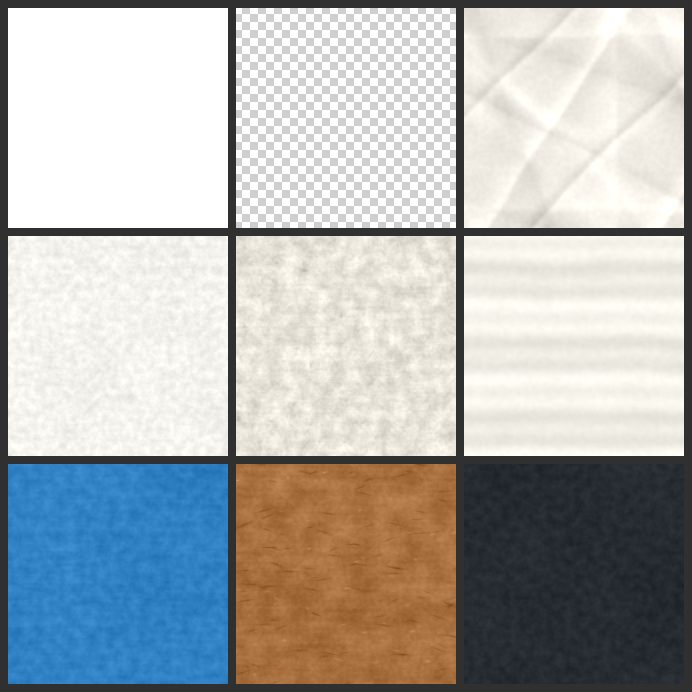
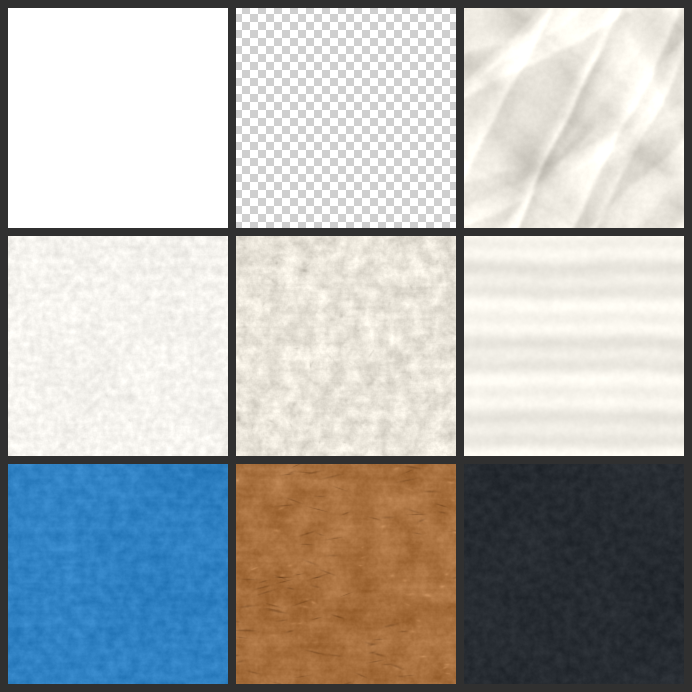
Crumpled stops looking quilted, and kraft fibre learns to clump
Two review notes against the rendered PNGs, both about the same failure: a
texture can hit every sigma threshold and still read as synthetic, because what
gives it away is the REGULARITY, which sigma does not measure at all.

Crumpled was a lattice. Each fold family is the set of parallel lines where
(a*u + b*v) is a whole number, which tiles perfectly and is why it was built
that way - but a stack of families with even pitch running edge to edge reads as
quilting or embossing, not as a crumpled sheet. Real crumpled paper has folds of
unequal length that start and stop, cluster in places and leave others nearly
flat.

So every family now carries a presence mask: a slow two-octave periodic field,
soft-thresholded, and the family's creases exist only where its mask is up. The
folds terminate mid-field, some vanish, and the density clumps. The mask has to
be a function of (u, v) rather than of the line index - stepping u by one moves
that index by a, so per-line randomness could only wrap if it were constant
along gcd(a, b), which for coprime a and b means constant everywhere. A 2-D
periodic field has no such problem and tiles for free.

Family count 15 -> 22 since each now covers only part of the sheet, the
direction pool widens to +/-4, and a third of the families are sharp narrow
creases against two thirds rolled folds, because a real sheet has both.

The coordinate warp is a judgement call and it got walked back after looking at
[…]

diff --git a/src/Quill/Controls/PaperGrain.cs b/src/Quill/Controls/PaperGrain.cs
@@ -215,31 +215,54 @@ public static class PaperGrain
         var h = new float[N];
         var warpU = new float[N];
         var warpV = new float[N];
-        Fbm(warpU, 2, 2, 3, 0.5f, 0.040f, 3301);
-        Fbm(warpV, 2, 2, 3, 0.5f, 0.040f, 3307);
+        // Enough to stop the folds being ruler-straight, and no more. Pushed
+        // further the creases start to curve like draped cloth; paper folds are
+        // comparatively angular, because a sheet creases rather than drapes.
+        Fbm(warpU, 2, 2, 4, 0.55f, 0.046f, 3301);
+        Fbm(warpV, 2, 2, 4, 0.55f, 0.046f, 3307);
 
         // Fold families. A family is the set of parallel lines where
         // (a·u + b·v) is a whole number: integer a and b make it exactly periodic
-        // on the tile, and the family's line spacing is Tile/sqrt(a² + b²), i.e.
-        // 121..512 px — long creases that cross the whole sheet, not a rash.
+        // on the tile, and the family's line spacing is Tile/sqrt(a² + b²).
+        //
+        // On its own that is a LATTICE, and a lattice of evenly pitched creases
+        // running edge to edge reads as quilted or embossed, not as crumpled —
+        // which is exactly how the first version of this looked. Real crumpled
+        // paper has folds of unequal length that start and stop, cluster in some
+        // places and leave others nearly flat. So every family carries a
+        // PRESENCE MASK (fm) — a slow periodic field, thresholded — and the
+        // family's creases only exist where its mask is up. Folds then terminate
+        // mid-field, some vanish entirely, and the density clumps.
+        //
+        // The mask has to be a function of (u, v) rather than of the line index:
+        // stepping u by 1 moves the index by a, so per-line randomness could only
+        // wrap if it were constant along gcd(a, b). A 2-D periodic field has no
+        // such problem and tiles for free.
         var rng = new Rng(90210);
-        const int families = 15;
+        const int families = 22;
         var fa = new int[families];
         var fb = new int[families];
         var fw = new float[families];
         var fp = new float[families];
         var fs = new float[families];
+        var fm = new int[families];
+        var fbias = new float[families];
         for (int k = 0; k < families; k++)
         {
             int a, b;
-            do { a = rng.Int(-3, 3); b = rng.Int(-3, 3); } while (a == 0 && b == 0);
+            do { a = rng.Int(-4, 4); b = rng.Int(-4, 4); } while (a == 0 && b == 0);
             fa[k] = a; fb[k] = b;
             float norm = MathF.Sqrt(a * a + b * b);
-            // half the creases are sharp and narrow, half are soft rolled folds
-            float wide = k % 2 == 0 ? rng.Range(11f, 22f) : rng.Range(26f, 52f);
+            // a third sharp, the rest rolled — a sheet has both hard creases and
+            // soft bends and the mix is what stops it looking machine-made
+            float wide = k % 3 == 0 ? rng.Range(9f, 19f) : rng.Range(24f, 58f);
             fw[k] = wide / (Tile / norm);          // width re-expressed as a phase fraction
             fp[k] = rng.Range(0f, 1f);
-            fs[k] = rng.Range(0.55f, 1.25f) * (rng.Next01() < 0.5f ? -1f : 1f);
+            fs[k] = rng.Range(0.45f, 1.30f) * (rng.Next01() < 0.5f ? -1f : 1f);
+            fm[k] = (int)(rng.Next01() * 100000f) + 11;
+            // how much of the sheet this family reaches: some folds cross most of
+            // it, others are a single short crease in one corner
+            fbias[k] = rng.Range(-0.16f, 0.30f);
         }
 
         Parallel.For(0, Tile, y =>
@@ -258,8 +281,18 @@ public static class PaperGrain
                     float dist = t > 0.5f ? 1f - t : t;   // phase distance to the nearest line
                     float w = fw[k];
                     if (dist >= w) continue;
+
+                    // Presence mask — two slow octaves, thresholded soft. Where
+                    // this is 0 the family's crease simply is not there, which is
+                    // what breaks the lattice into folds of unequal length.
+                    int s = fm[k];
+                    float m = Perlin(u * 3f, v * 3f, 3, 3, s)
+                            + 0.55f * Perlin(u * 7f, v * 7f, 7, 7, s + 17);
+                    m = Smooth01((m + 0.30f + fbias[k]) * 2.4f);
+                    if (m <= 0f) continue;
+
                     float e = 1f - dist / w;
-                    acc += fs[k] * e * e;
+                    acc += fs[k] * e * e * m;
                 }
                 h[i] = acc;
             }
@@ -362,11 +395,14 @@ public static class PaperGrain
         // Dark shives: long, thin, near-horizontal and warm — they take the blue
         // channel down hardest, which is what makes them look like wood rather
         // than like dirt.
-        Flecks(dr, dg, db, 420, 5.5f, 0.85f, -22f, 0.20f, 7741, elongate: true,
-               tintG: 0.78f, tintB: 0.55f);
-        // Pale flecks: filler, and the odd bleached fibre.
-        Flecks(dr, dg, db, 200, 2.4f, 1.1f, 18f, 0.35f, 7757, elongate: true,
-               tintG: 0.95f, tintB: 0.90f);
+        // Counts are roughly doubled because the clump test rejects about half
+        // the candidates; what lands is the same quantity of fibre, gathered.
+        Flecks(dr, dg, db, 900, 5.5f, 0.85f, -22f, 0.20f, 7741, elongate: true,
+               tintG: 0.78f, tintB: 0.55f, clump: 5);
+        // Pale flecks: filler, and the odd bleached fibre. Clumped on a different
+        // field so the two do not pile up in the same places.
+        Flecks(dr, dg, db, 430, 2.4f, 1.1f, 18f, 0.35f, 7757, elongate: true,
+               tintG: 0.95f, tintB: 0.90f, clump: 7);
     }
 
     // =====================================================================
@@ -450,7 +486,8 @@ public static class PaperGrain
     /// sheet it sits in.</summary>
     private static void Flecks(float[] dr, float[] dg, float[] db, int count,
                                float length, float width, float amp, float vary, int seed,
-                               bool elongate = false, float tintG = 1f, float tintB = 1f)
+                               bool elongate = false, float tintG = 1f, float tintB = 1f,
+                               int clump = 0)
     {
         bool shared = ReferenceEquals(dr, dg);
         var rng = new Rng(seed);
@@ -458,6 +495,19 @@ public static class PaperGrain
         {
             float cx = rng.Range(0f, Tile);
             float cy = rng.Range(0f, Tile);
+
+            // Fibre CLUMPS. Scattering inclusions uniformly is the giveaway that
+            // a texture is synthetic: real kraft has dense mats of fibre with
+            // visibly emptier sheet between them. Candidates are rejected against
+            // a slow periodic field, so density follows the field instead of
+            // being flat. Rejected candidates are dropped rather than resampled,
+            // which keeps the loop bounded and the output deterministic — callers
+            // raise `count` to compensate.
+            if (clump > 0)
+            {
+                float m = Perlin(cx / Tile * clump, cy / Tile * clump, clump, clump, seed + 991);
+                if (rng.Next01() > Smooth01(0.5f + 2.6f * m)) continue;
+            }
             // aligned flecks sit near the machine direction (horizontal); the rest
             // point anywhere
             float ang = elongate ? rng.Range(-0.42f, 0.42f) : rng.Range(0f, TAU);
@@ -588,6 +638,16 @@ public static class PaperGrain
     {
         int r = a % m;
         return r < 0 ? r + m : r;
+    }
+
+    /// <summary>Clamps to [0,1] and applies the smoothstep ease, so a threshold
+    /// on a noise field produces patches with soft edges rather than a hard
+    /// stencil cut.</summary>
+    private static float Smooth01(float x)
+    {
+        if (x <= 0f) return 0f;
+        if (x >= 1f) return 1f;
+        return x * x * (3f - 2f * x);
     }
 
     /// <summary>A tiny deterministic PRNG. <see cref="System.Random"/>'s sequence

diff --git a/src/Quill/Controls/InkSurface.cs b/src/Quill/Controls/InkSurface.cs
@@ -311,12 +311,28 @@ public sealed class InkSurface : UserControl
         // The reason to watch is NewDevice, not a "DeviceLost" constant: Win2D
         // reports a recovered device loss by handing the control a NEW device
         // through this same event (the enum is FirstTime / NewDevice /
-        // DpiChanged). DpiChanged is deliberately NOT a trigger - the tiles are
-        // baked at a fixed 96 DPI so one tile pixel is one world unit.
+        // DpiChanged).
+        //
+        // DpiChanged matters too, but not for the page tiles - those are baked
+        // at a fixed 96 DPI on purpose, so one tile pixel is one world unit and
+        // a display change cannot affect them. It matters for the settings
+        // swatches, which are CanvasImageSource and are XAML-composited:
+        // rasterised at 96 on a 125% or 150% display they come out soft. So the
+        // DPI is pushed into PaperTextures, which re-bakes only if it moved.
         _canvas.CreateResources += (_, args) =>
         {
-            if (args.Reason == Microsoft.Graphics.Canvas.UI.CanvasCreateResourcesReason.NewDevice)
+            var reason = args.Reason;
+            if (reason == Microsoft.Graphics.Canvas.UI.CanvasCreateResourcesReason.NewDevice)
                 PaperTextures.Invalidate();
+            if (reason != Microsoft.Graphics.Canvas.UI.CanvasCreateResourcesReason.FirstTime)
+                PaperTextures.SetDisplayDpi(_canvas.Dpi);
+        };
+        // FirstTime fires before the control has its real DPI in some shells, so
+        // the initial value is taken from the XamlRoot once we are in the tree.
+        Loaded += (_, _) =>
+        {
+            try { PaperTextures.SetDisplayDpi((float)(XamlRoot?.RasterizationScale ?? 1.0) * 96f); }
+            catch { }
         };
         _textLayer = new Canvas { Background = null, RenderTransform = _textTransform };
 
@@ -3442,15 +3458,16 @@ public sealed class InkSurface : UserControl
     // effect, it never assigns to it, so the CVC's per-tile pre-translation
     // survives (overwriting it is what made ink vanish in #inkfix2).
     //
-    // The fill rectangle is the visible world rect and the brush wraps every 256
-    // WORLD units, so the texture is glued to the page: it pans and zooms with
-    // the drawing instead of swimming across it.
+    // The fill rectangle is the visible world rect and the brush wraps every
+    // PaperTextures.TileSize WORLD units, so the texture is glued to the page:
+    // it pans and zooms with the drawing instead of swimming across it.
     private void DrawPaper(CanvasDrawingSession ds, Rect region, Color ground)
     {
         var paper = _page?.Paper;
         if (string.IsNullOrEmpty(paper)) return;   // plain colour: byte-for-byte today's path
-        // zoomed far enough out that a 256-unit tile is a few pixels: the grain
-        // would alias into noise, and the flat ground already reads correctly
+        // Zoomed far enough out that the grain is sub-pixel: it would alias into
+        // noise, and the flat ground already reads correctly on its own. The tile
+        // is 512 world units, so this cuts in when it covers ~90 screen pixels.
         if (ViewZoom < 0.18f) return;
         var brush = PaperTextures.Brush(_canvas, paper, ground);
         if (brush == null) return;

diff --git a/src/Quill/Controls/PaperTextures.cs b/src/Quill/Controls/PaperTextures.cs
@@ -204,6 +204,12 @@ public static class PaperTextures
                 if (tile == null) return null;
                 var br = new CanvasImageBrush(rc, tile)
                 {
+                    // SourceRectangle is set EXPLICITLY. Win2D requires a source
+                    // rectangle whenever the extend mode is anything but Clamp —
+                    // it is what tells the brush the period to repeat over — and
+                    // leaving it to be inferred is a documented way to get a
+                    // brush that draws nothing at all.
+                    SourceRectangle = new Windows.Foundation.Rect(0, 0, TileSize, TileSize),
                     ExtendX = CanvasEdgeBehavior.Wrap,
                     ExtendY = CanvasEdgeBehavior.Wrap,
                     Interpolation = CanvasImageInterpolation.Linear,
